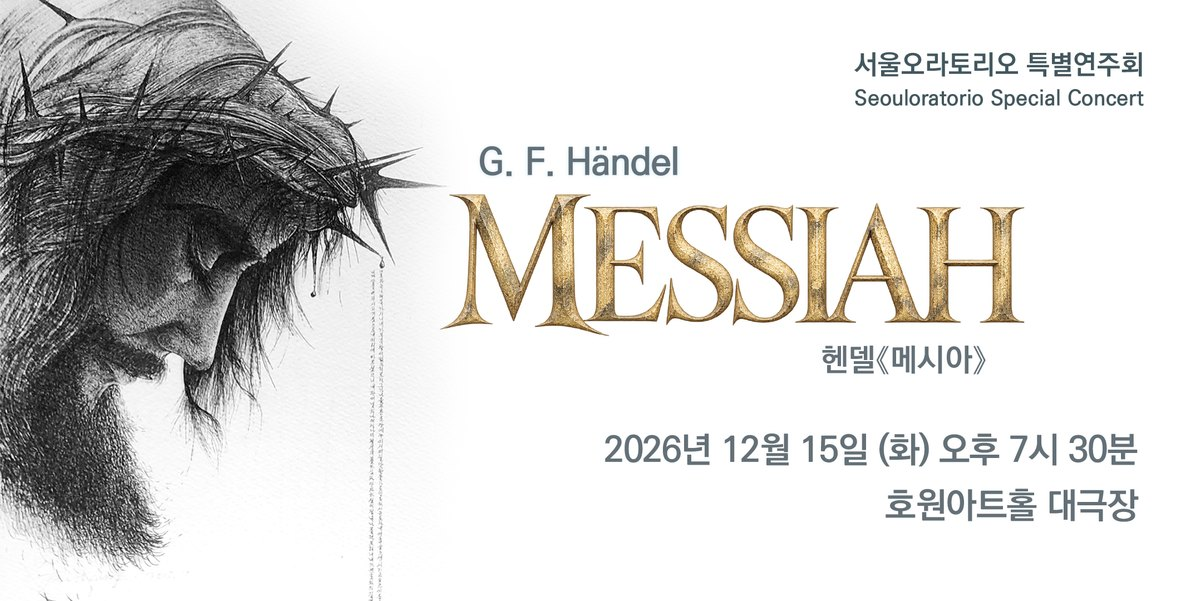
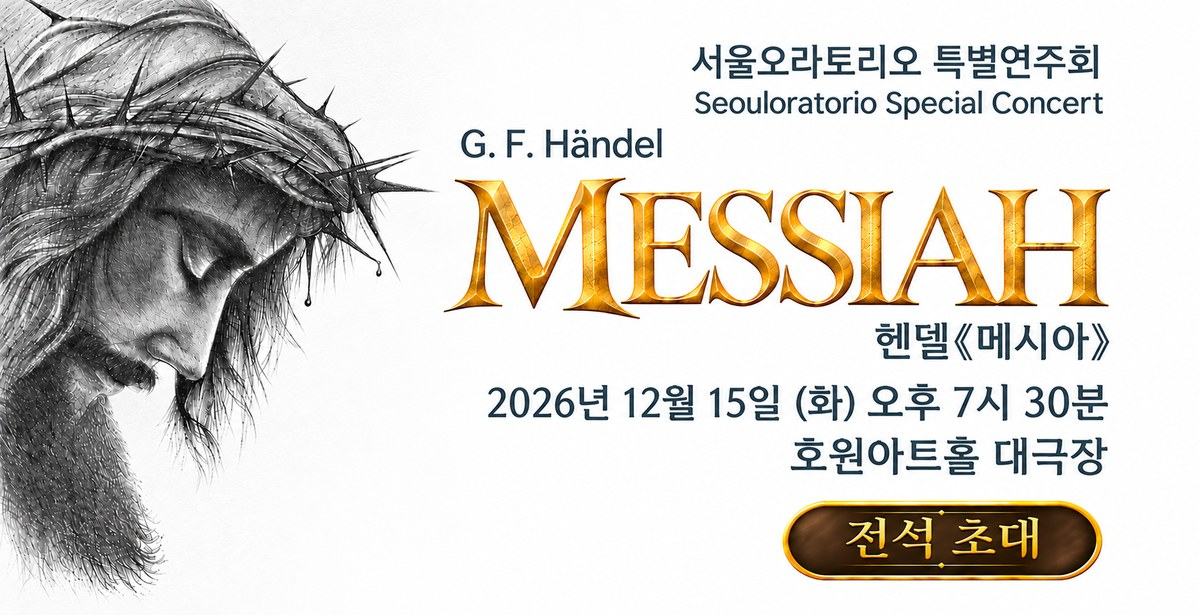
Replace link-preview thumbnail image
Claude-Session: https://claude.ai/code/session_01TE4dLCWdcK6Lj2QG2vgyBi

diff --git a/special-concert/index.html b/special-concert/index.html
@@ -9,11 +9,11 @@
 <meta property="og:url" content="https://kimjiheon1982go.github.io/seouloratorio/special-concert/">
 <meta property="og:title" content="헨델《메시아》 · 서울오라토리오 특별연주회">
 <meta property="og:description" content="2026년 12월 15일(화) 오후 7시 30분 · 호원아트홀 대극장 · 전석 초대">
-<meta property="og:image" content="https://kimjiheon1982go.github.io/seouloratorio/special-concert/og.jpg?v=1">
+<meta property="og:image" content="https://kimjiheon1982go.github.io/seouloratorio/special-concert/og.jpg?v=2">
 <meta property="og:image:width" content="1200">
-<meta property="og:image:height" content="601">
+<meta property="og:image:height" content="615">
 <meta name="twitter:card" content="summary_large_image">
-<meta name="twitter:image" content="https://kimjiheon1982go.github.io/seouloratorio/special-concert/og.jpg?v=1">
+<meta name="twitter:image" content="https://kimjiheon1982go.github.io/seouloratorio/special-concert/og.jpg?v=2">
 <link rel="preconnect" href="https://fonts.googleapis.com">
 <link rel="preconnect" href="https://fonts.gstatic.com" crossorigin>
 <link href="https://fonts.googleapis.com/css2?family=Cormorant+Garamond:ital,wght@0,500;0,600;1,500&family=Noto+Serif+KR:wght@400;600;700&family=Noto+Sans+KR:wght@400;500;700&display=swap" rel="stylesheet">
